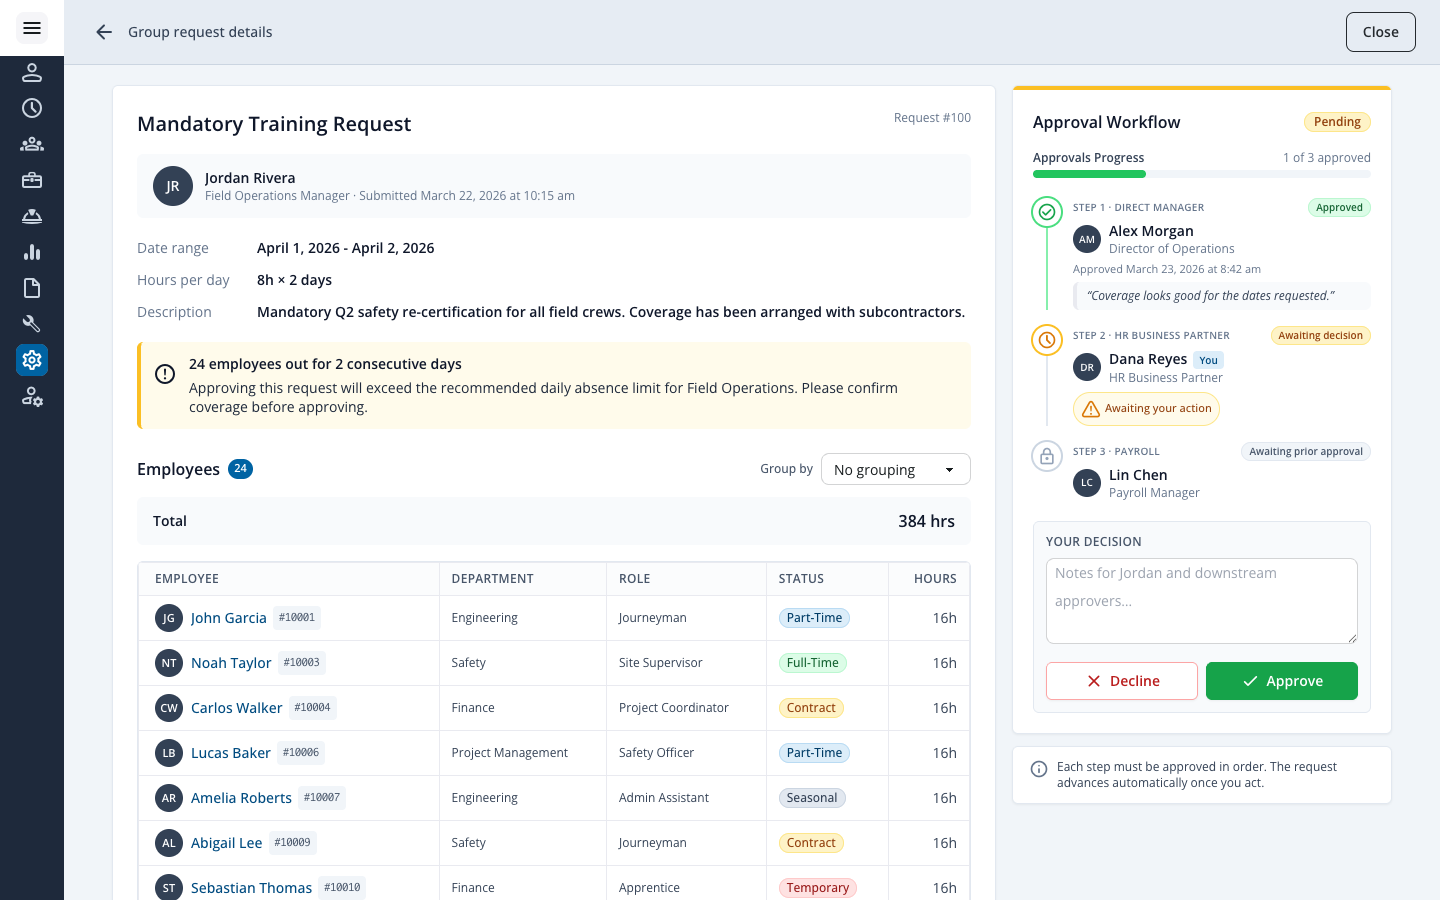
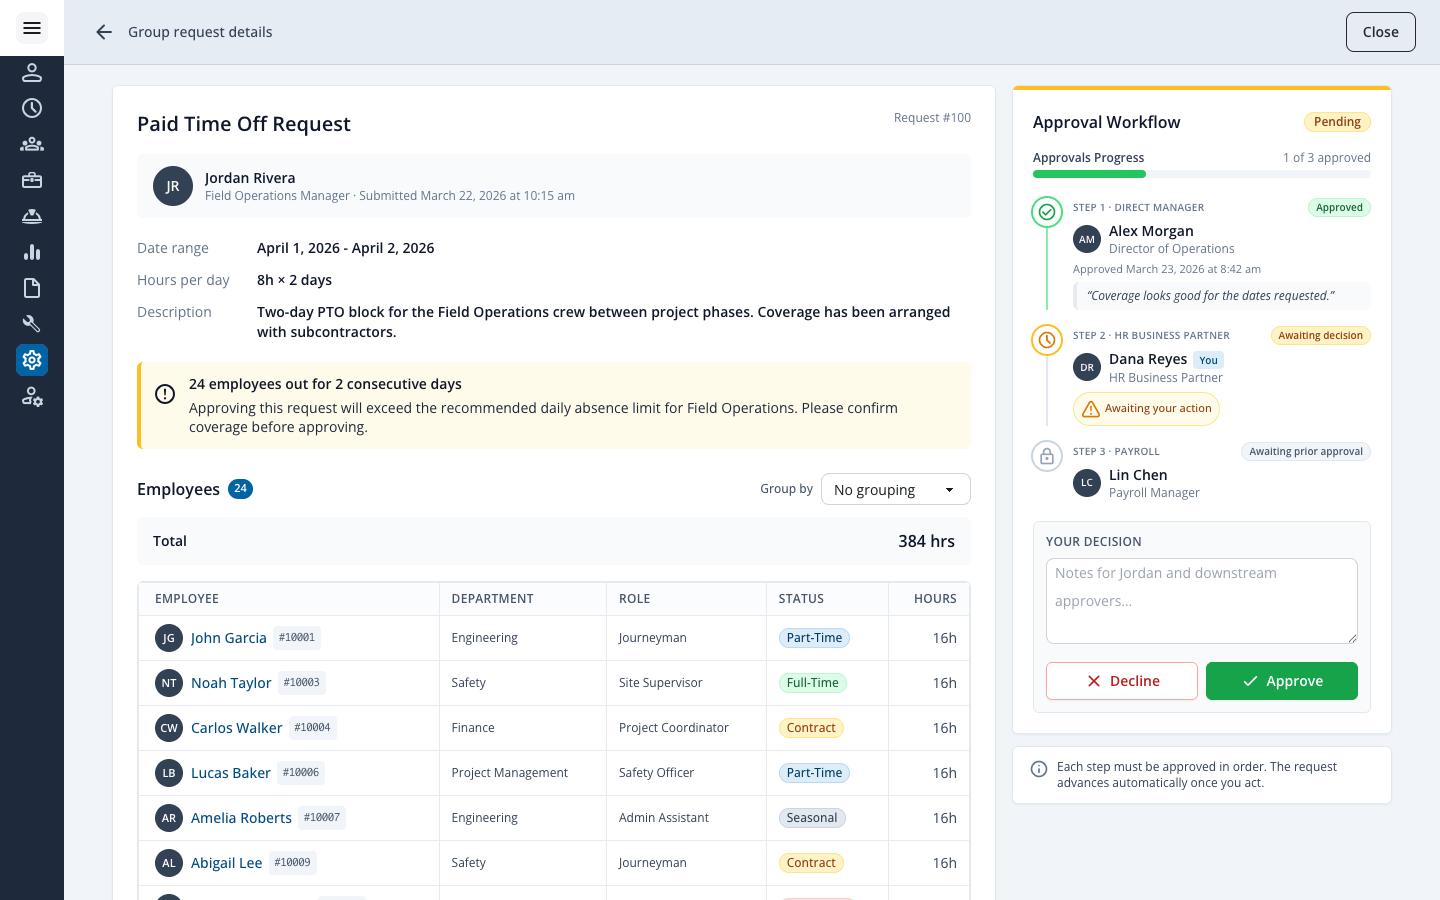
Use a real time off type for the pending group request
The pending group request previously had type Mandatory Training,
which is not one of the supported time-off categories. Re-cast it
as a Paid Time Off block for the Field Operations crew so every
group request is consistently typed against TIME_OFF_TYPES.

- mockData: grp-100 type Mandatory Training -> Paid Time Off,
  calendar event label Q2 Safety Training -> Field Ops PTO Block,
  requester comment rewritten to reflect a PTO block scenario.
- README: corrected the seed-data summary.
- Refreshed docs/01-main-page.png, docs/02-dropdown.png, and
  docs/04-workflow-pending.png to match the updated copy.

diff --git a/src/data/mockData.js b/src/data/mockData.js
@@ -92,8 +92,8 @@ export const EMPLOYEES = Array.from({ length: 36 }, (_, i) => {
 // Each event { date: 'YYYY-MM-DD', label, status, requestId?, kind? }
 // kind: 'group' marks employer-wide team time-off; default is individual.
 export const CALENDAR_EVENTS = [
-  { date: '2026-04-01', label: 'Q2 Safety Training (24 employees)', status: 'pending', requestId: 'grp-100', kind: 'group' },
-  { date: '2026-04-02', label: 'Q2 Safety Training (24 employees)', status: 'pending', requestId: 'grp-100', kind: 'group' },
+  { date: '2026-04-01', label: 'Field Ops PTO Block (24 employees)', status: 'pending', requestId: 'grp-100', kind: 'group' },
+  { date: '2026-04-02', label: 'Field Ops PTO Block (24 employees)', status: 'pending', requestId: 'grp-100', kind: 'group' },
   { date: '2026-04-05', label: '10001 - Sara Farhat - Vacation', status: 'approved' },
   { date: '2026-04-06', label: '10001 - Sara Farhat - Vacation', status: 'approved' },
   { date: '2026-04-07', label: '10001 - Sara Farhat - Vacation', status: 'approved' },
@@ -196,11 +196,11 @@ export const GROUP_REQUESTS = {
     },
     status: 'pending',
     requestedOn: '2026-03-22T10:15:00',
-    type: 'Mandatory Training',
+    type: 'Paid Time Off',
     dateRange: { start: '2026-04-01', end: '2026-04-02' },
     hoursPerDay: 8,
     requesterComment:
-      'Mandatory Q2 safety re-certification for all field crews. Coverage has been arranged with subcontractors.',
+      'Two-day PTO block for the Field Operations crew between project phases. Coverage has been arranged with subcontractors.',
     days: [
       { date: '2026-04-01', conflict: false },
       { date: '2026-04-02', conflict: false },

diff --git a/README.md b/README.md
@@ -60,7 +60,7 @@ A full-page route — not a modal — used to review and act on group requests.
   - **Your decision** block (only visible to the active approver): comment textarea + outlined `Decline` (close icon) and solid `Approve` (check icon) buttons.
   - Dynamic bottom hint that adapts to in-progress / approved / declined state.
 
-The mock data ships with one **pending** request (Q2 Safety Training — manager has approved, HR Business Partner is the current step, payroll is awaiting) and one **fully approved** request (Engineering Offsite — all three steps signed off with timestamps and comments).
+The mock data ships with one **pending** Paid Time Off request (a Field Operations PTO block — manager has approved, HR Business Partner is the current step, payroll is awaiting) and one **fully approved** Team Trip request (Engineering Offsite — all three steps signed off with timestamps and comments).
 
 ## Design system
 
